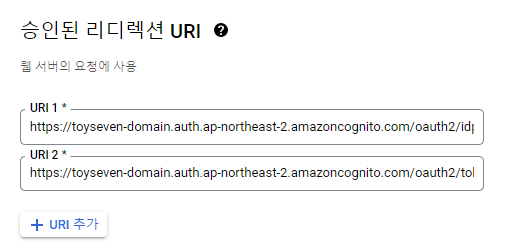
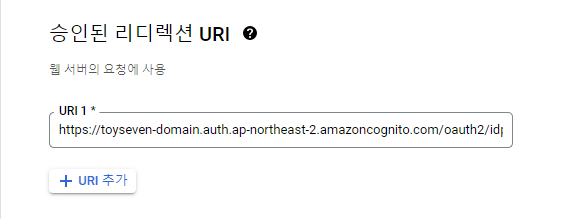
style: Update description

diff --git a/_posts/aws/2022-05-23-Aws-03-Cognito-OAuth2.md b/_posts/aws/2022-05-23-Aws-03-Cognito-OAuth2.md
@@ -15,6 +15,7 @@ last_modified_at: 2022-05-23
 
 - 참고사이트
   - [AWS Document](https://aws.amazon.com/ko/premiumsupport/knowledge-center/cognito-google-social-identity-provider/){:target="_blank"}
+  - [AWS Document](https://aws.amazon.com/ko/blogs/mobile/understanding-amazon-cognito-user-pool-oauth-2-0-grants/){:target="_blank"}
 
 
 ### ``1. OAuth2 동의화면``
@@ -90,7 +91,8 @@ cognito console 에서 도에인 부분을 입력합니다.<br>
 
 congnito console 의 도메인 뒤에 Endpoint(/oauth2/idpresponse) 를 추가합니다.<br>
  - https://toyseven-domain.auth.ap-northeast-2.amazoncognito.com/oauth2/idpresponse
- - https://toyseven-domain.auth.ap-northeast-2.amazoncognito.com/oauth2/token
+
+ [AWS Document](https://aws.amazon.com/ko/blogs/mobile/understanding-amazon-cognito-user-pool-oauth-2-0-grants/){:target="_blank"}
 
 ![AWS](/assets/image/aws/AWS_Cognito_OAuth2_13.PNG)
 
